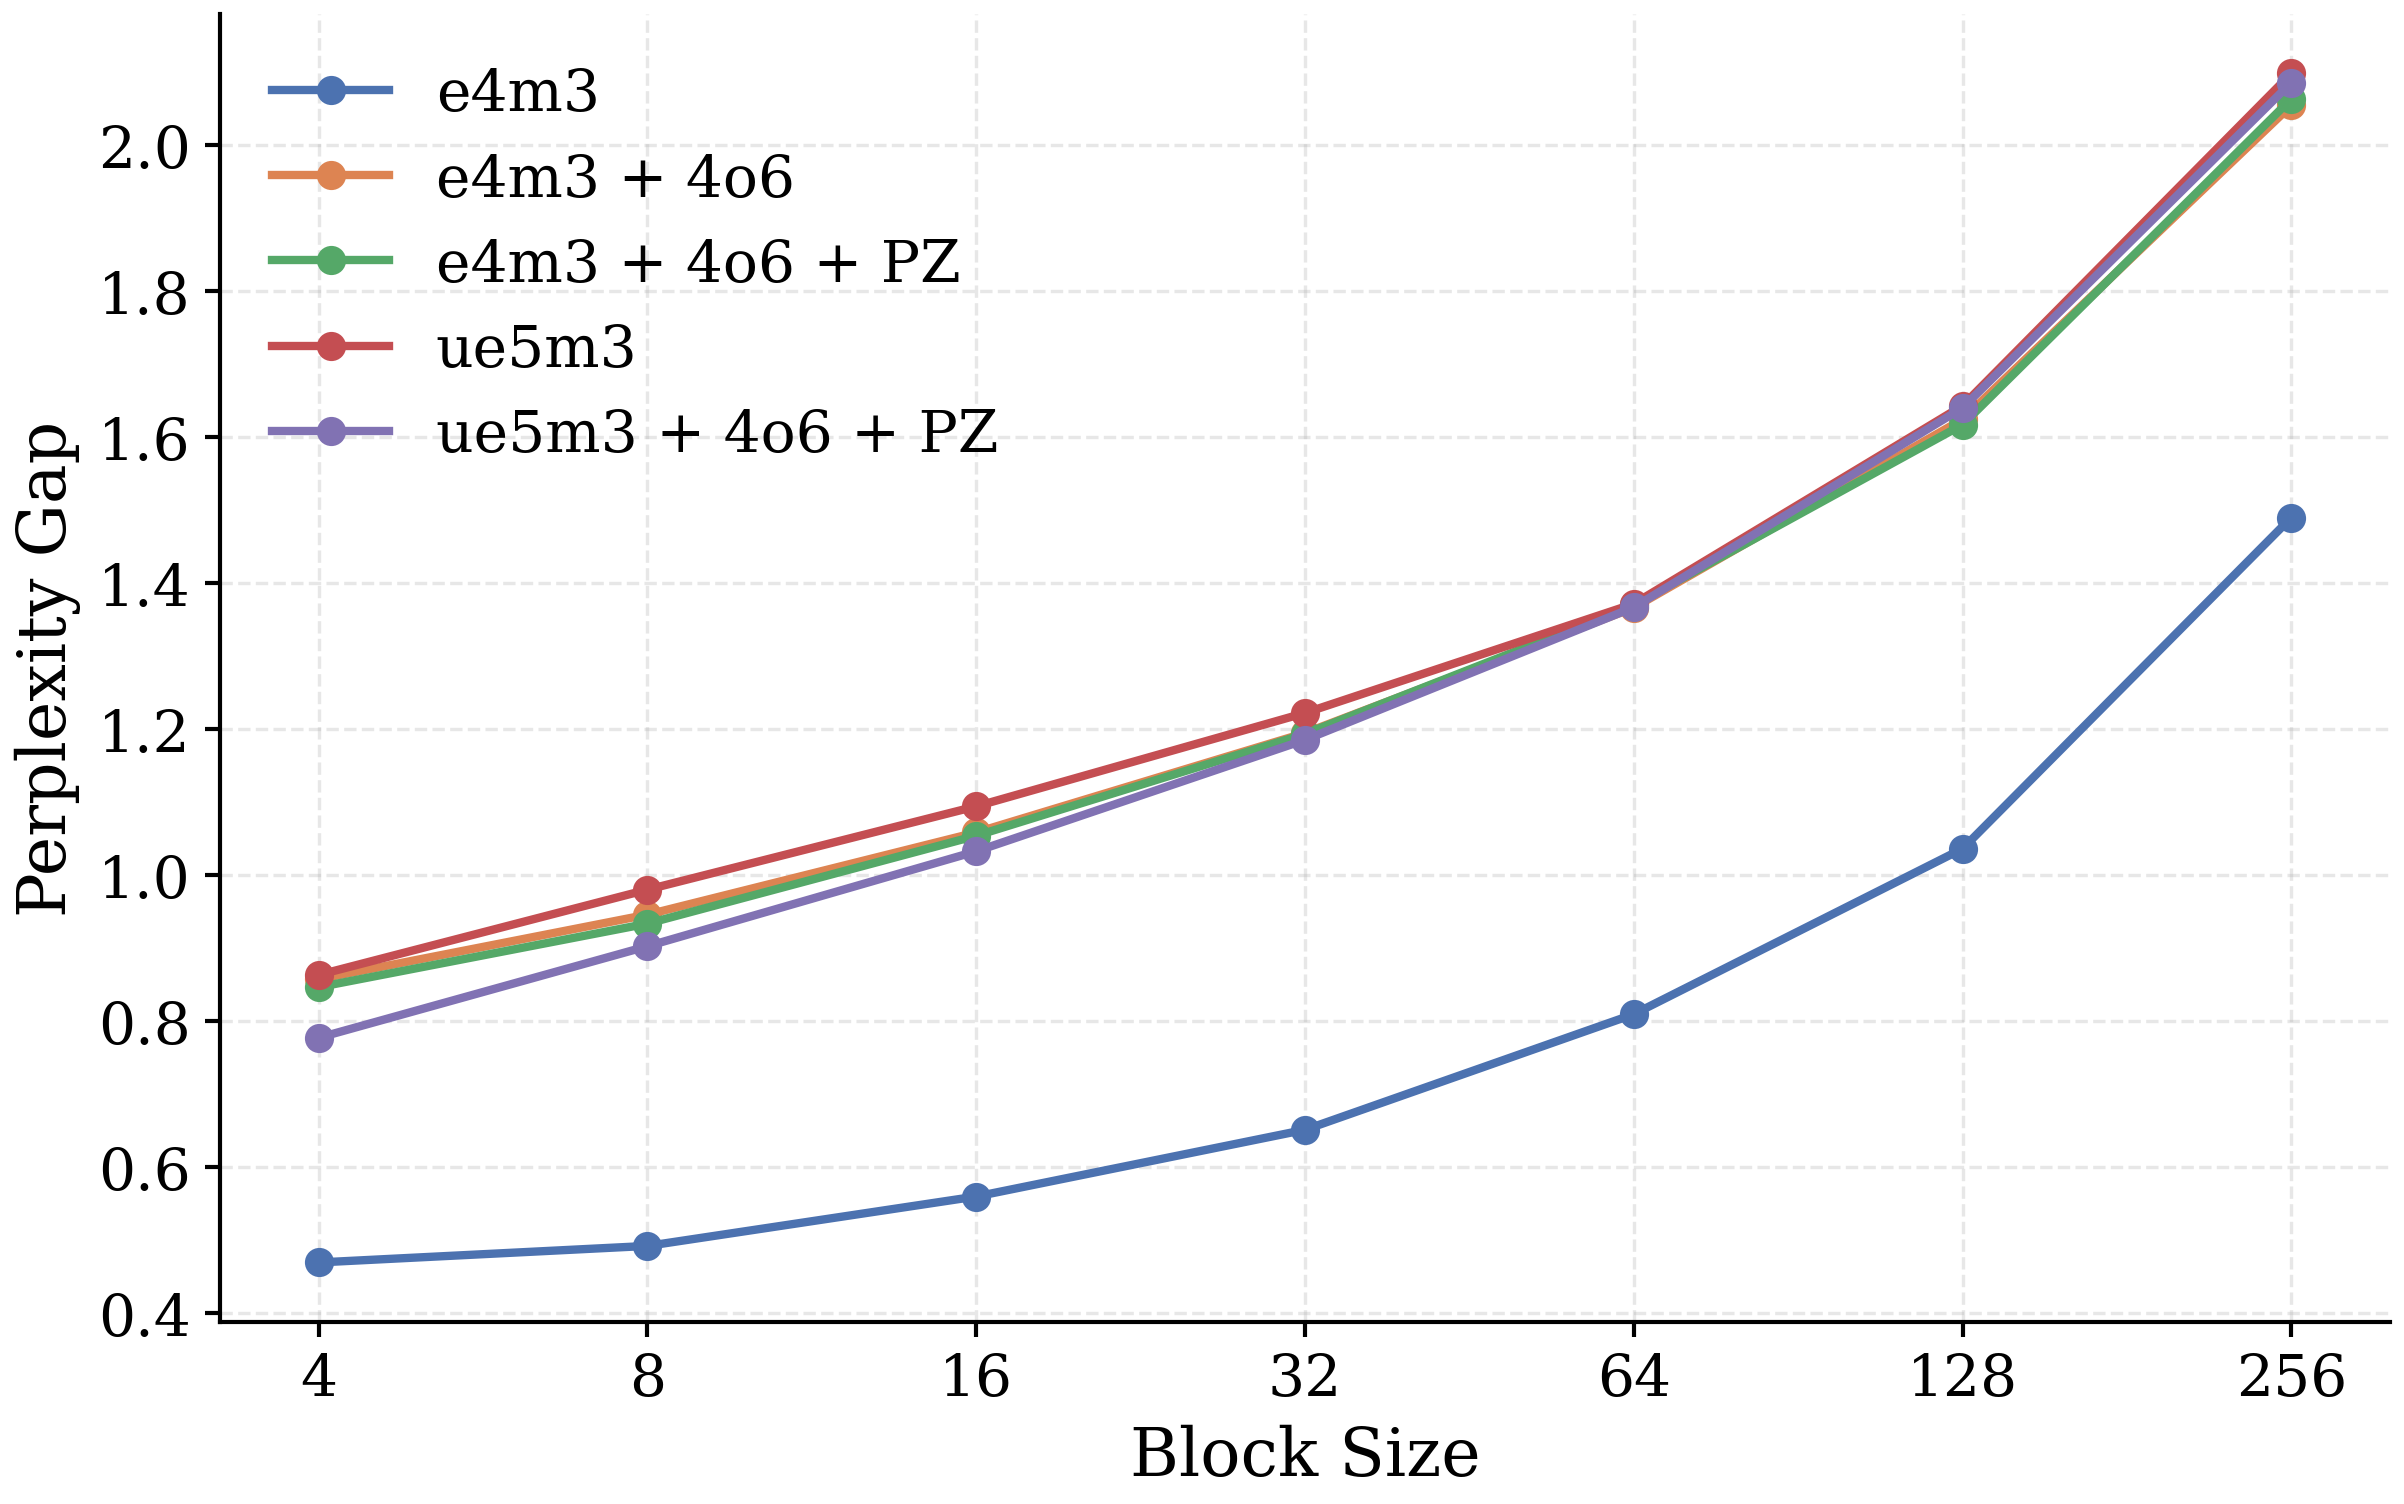
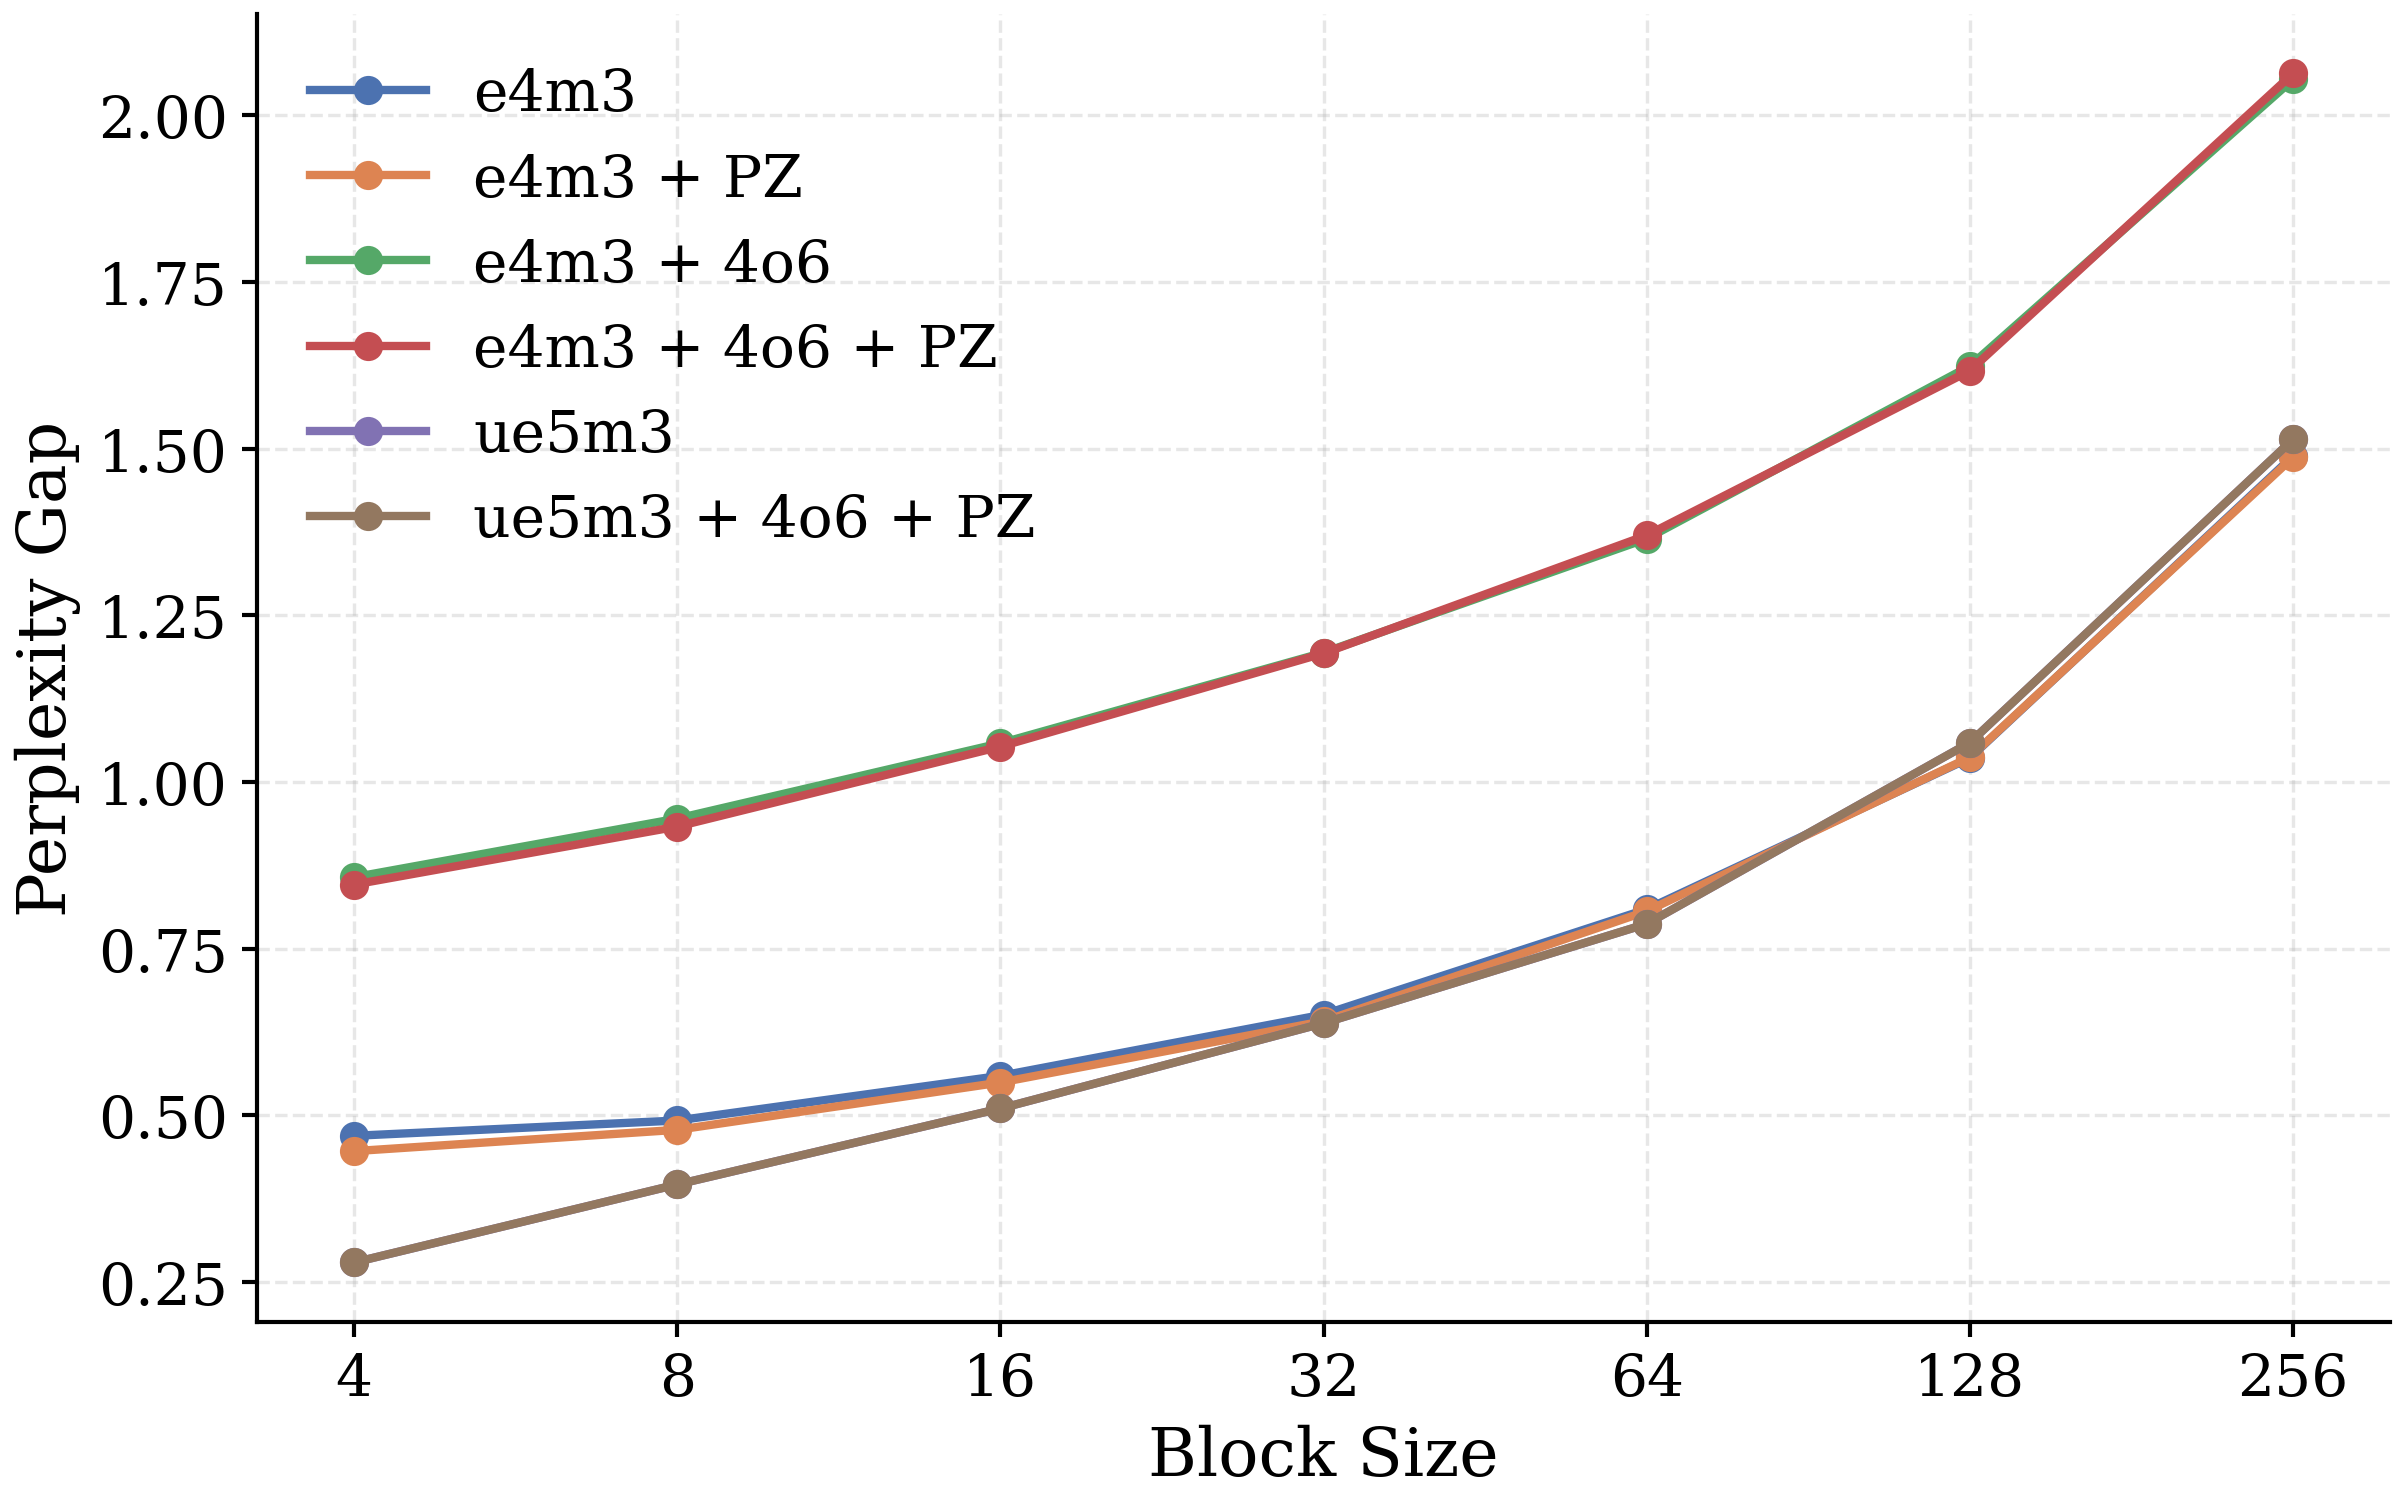
Remove phantom baseline rows and clean up tables

diff --git a/README.md b/README.md
@@ -126,11 +126,12 @@ This section is automatically updated by the evaluation script after each run. D
 
 |                  |   Baseline |   BS=4 |   BS=8 |   BS=16 |   BS=32 |   BS=64 |   BS=128 |   BS=256 |
 |:-----------------|-----------:|-------:|-------:|--------:|--------:|--------:|---------:|---------:|
-| e4m3             |       4.77 |   0.47 |   0.49 |    0.56 |    0.65 |    0.81 |     1.04 |     1.49 |
-| e4m3 + 4o6       |       4.77 |   0.86 |   0.95 |    1.06 |    1.19 |    1.37 |     1.62 |     2.05 |
-| e4m3 + 4o6 + PZ  |       4.77 |   0.85 |   0.93 |    1.05 |    1.19 |    1.37 |     1.62 |     2.06 |
-| ue5m3            |       4.77 |   0.86 |   0.98 |    1.09 |    1.22 |    1.37 |     1.64 |     2.1  |
-| ue5m3 + 4o6 + PZ |       4.77 |   0.78 |   0.9  |    1.03 |    1.18 |    1.37 |     1.64 |     2.09 |
+| e4m3             |       5.36 |   0.47 |   0.49 |    0.56 |    0.65 |    0.81 |     1.04 |     1.49 |
+| e4m3 + PZ        |       5.36 |   0.45 |   0.48 |    0.55 |    0.64 |    0.81 |     1.04 |     1.49 |
+| e4m3 + 4o6       |       5.36 |   0.86 |   0.94 |    1.06 |    1.19 |    1.36 |     1.62 |     2.05 |
+| e4m3 + 4o6 + PZ  |       5.36 |   0.85 |   0.93 |    1.05 |    1.19 |    1.37 |     1.62 |     2.06 |
+| ue5m3            |       5.36 |   0.28 |   0.4  |    0.51 |    0.64 |    0.79 |     1.06 |     1.51 |
+| ue5m3 + 4o6 + PZ |       5.36 |   0.28 |   0.4  |    0.51 |    0.64 |    0.79 |     1.06 |     1.51 |
 
 ### Graphs
 <table>
